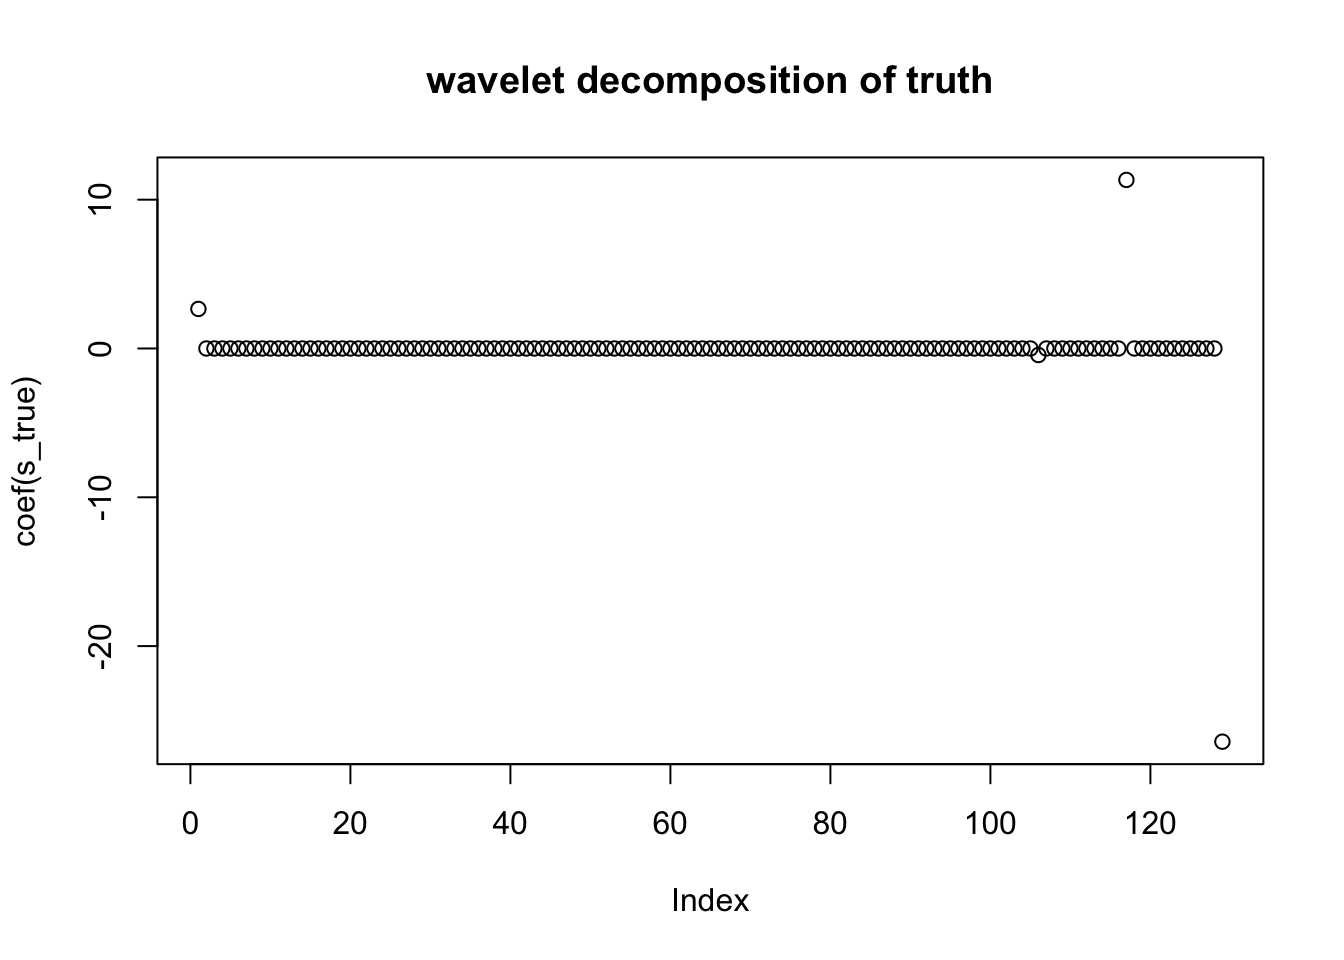
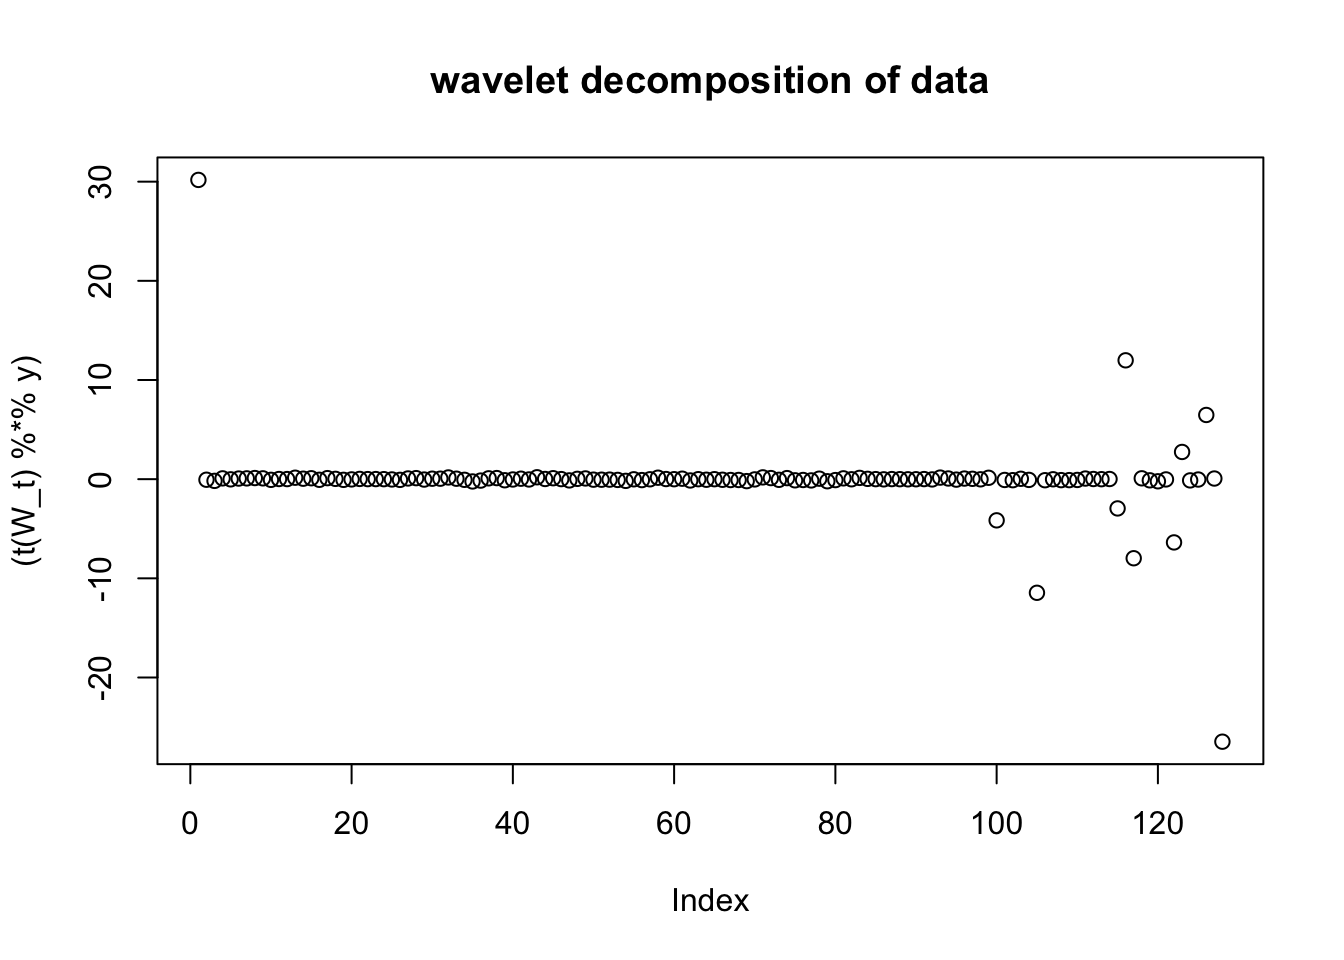
Build site.

diff --git a/docs/wavelet-susie-20190129.html b/docs/wavelet-susie-20190129.html
@@ -436,7 +436,7 @@ div.section {
 </div>
 
 
-<p><strong>Last updated:</strong> 2019-01-29</p>
+<p><strong>Last updated:</strong> 2019-01-30</p>
 <strong>workflowr checks:</strong> <small>(Click a bullet for more information)</small>
 <ul>
 <li>
@@ -460,7 +460,7 @@ div.section {
 </details>
 </li>
 <li>
-<p><details> <summary> <strong style="color:blue;">✔</strong> <strong>Repository version:</strong> <a href="https://github.com/KaiqianZhang/susie-np/tree/7d736391c860d389f6b5a8db7f1e5eeb7ea72b71" target="_blank">7d73639</a> </summary></p>
+<p><details> <summary> <strong style="color:blue;">✔</strong> <strong>Repository version:</strong> <a href="https://github.com/KaiqianZhang/susie-np/tree/d812586fbcf743f607ef07366038cdacc9167f55" target="_blank">d812586</a> </summary></p>
 Great! You are using Git for version control. Tracking code development and connecting the code version to the results is critical for reproducibility. The version displayed above was the version of the Git repository at the time these results were generated. <br><br> Note that you need to be careful to ensure that all relevant files for the analysis have been committed to Git prior to generating the results (you can use <code>wflow_publish</code> or <code>wflow_git_commit</code>). workflowr only checks the R Markdown file, but you know if there are other scripts or data files that it depends on. Below is the status of the Git repository when the results were generated:
 <pre><code>
 Ignored files:
@@ -501,6 +501,40 @@ Message
 </tr>
 </thead>
 <tbody>
+<tr>
+<td style="text-align:left;">
+Rmd
+</td>
+<td style="text-align:left;">
+<a href="https://github.com/KaiqianZhang/susie-np/blob/d812586fbcf743f607ef07366038cdacc9167f55/analysis/wavelet-susie-20190129.Rmd" target="_blank">d812586</a>
+</td>
+<td style="text-align:left;">
+kaiqian
+</td>
+<td style="text-align:left;">
+2019-01-30
+</td>
+<td style="text-align:left;">
+update 20190129, fix residual variance in the bad fit example
+</td>
+</tr>
+<tr>
+<td style="text-align:left;">
+html
+</td>
+<td style="text-align:left;">
+<a href="https://cdn.rawgit.com/KaiqianZhang/susie-np/fb0735e0508d864792e467a76ba020e2a0129f4f/docs/wavelet-susie-20190129.html" target="_blank">fb0735e</a>
+</td>
+<td style="text-align:left;">
+kaiqian
+</td>
+<td style="text-align:left;">
+2019-01-29
+</td>
+<td style="text-align:left;">
+Build site.
+</td>
+</tr>
 <tr>
 <td style="text-align:left;">
 Rmd
@@ -595,6 +629,36 @@ RW_t = tcrossprod(R, W)</code></pre>
 lines(x, beta, col=&quot;black&quot;, lwd=2)
 lines(x, predict(s), col=&#39;red&#39;, lwd=2)</code></pre>
 <p><img src="figure/wavelet-susie-20190129.Rmd/unnamed-chunk-6-1.png" width="672" style="display: block; margin: auto;" /></p>
+<details> <summary><em>Expand here to see past versions of unnamed-chunk-6-1.png:</em></summary>
+<table style="border-collapse:separate; border-spacing:5px;">
+<thead>
+<tr>
+<th style="text-align:left;">
+Version
+</th>
+<th style="text-align:left;">
+Author
+</th>
+<th style="text-align:left;">
+Date
+</th>
+</tr>
+</thead>
+<tbody>
+<tr>
+<td style="text-align:left;">
+<a href="https://github.com/KaiqianZhang/susie-np/blob/fb0735e0508d864792e467a76ba020e2a0129f4f/docs/figure/wavelet-susie-20190129.Rmd/unnamed-chunk-6-1.png" target="_blank">fb0735e</a>
+</td>
+<td style="text-align:left;">
+kaiqian
+</td>
+<td style="text-align:left;">
+2019-01-29
+</td>
+</tr>
+</tbody>
+</table>
+<p></details></p>
 <pre class="r"><code>n = 100
 K = 2^(ceiling(log2(n)))
 set.seed(1)
@@ -611,6 +675,36 @@ RW_t = tcrossprod(R, W)</code></pre>
 lines(x, beta, col=&quot;black&quot;, lwd=2)
 lines(x, predict(s), col=&#39;red&#39;, lwd=2)</code></pre>
 <p><img src="figure/wavelet-susie-20190129.Rmd/unnamed-chunk-10-1.png" width="672" style="display: block; margin: auto;" /></p>
+<details> <summary><em>Expand here to see past versions of unnamed-chunk-10-1.png:</em></summary>
+<table style="border-collapse:separate; border-spacing:5px;">
+<thead>
+<tr>
+<th style="text-align:left;">
+Version
+</th>
+<th style="text-align:left;">
+Author
+</th>
+<th style="text-align:left;">
+Date
+</th>
+</tr>
+</thead>
+<tbody>
+<tr>
+<td style="text-align:left;">
+<a href="https://github.com/KaiqianZhang/susie-np/blob/fb0735e0508d864792e467a76ba020e2a0129f4f/docs/figure/wavelet-susie-20190129.Rmd/unnamed-chunk-10-1.png" target="_blank">fb0735e</a>
+</td>
+<td style="text-align:left;">
+kaiqian
+</td>
+<td style="text-align:left;">
+2019-01-29
+</td>
+</tr>
+</tbody>
+</table>
+<p></details></p>
 <p>Putting aside non-equispaced and not a power of 2 implementation, we first want to understand the following bad fit. Suppose we have <code>n=128</code> (i.e. n is a power of 2) equal-spaced data points with three jumps. Fitting with orthogoal wavelet basis, we still get a bad fit. We can observe this from Figure 3 below.</p>
 <pre class="r"><code>n = 128
 beta = c(rep(0,20), rep(3,20), rep(-3,20), rep(5,68))
@@ -622,12 +716,80 @@ y = beta + rnorm(n, sd=0.1)</code></pre>
 lines(beta, col=&quot;black&quot;, lwd=2)
 lines(predict(s), col=&#39;red&#39;, lwd=2)</code></pre>
 <p><img src="figure/wavelet-susie-20190129.Rmd/unnamed-chunk-14-1.png" width="672" style="display: block; margin: auto;" /></p>
-<p>We apply wavelet decomposition of truth and data and plot their coefficients. We notice that both decompositions identify three non-zeros around same locations. And the number of non-zeros indicates that beta is pretty sparse. Our question becomes if coefficients are the same, is there anything wrong with prediction?</p>
-<pre class="r"><code>s_true = susie(W_t, beta, L=50, estimate_prior_variance = TRUE)</code></pre>
-<pre class="r"><code>plot(coef(s_true), main=&#39;wavelet decomposition of truth&#39;)</code></pre>
+<details> <summary><em>Expand here to see past versions of unnamed-chunk-14-1.png:</em></summary>
+<table style="border-collapse:separate; border-spacing:5px;">
+<thead>
+<tr>
+<th style="text-align:left;">
+Version
+</th>
+<th style="text-align:left;">
+Author
+</th>
+<th style="text-align:left;">
+Date
+</th>
+</tr>
+</thead>
+<tbody>
+<tr>
+<td style="text-align:left;">
+<a href="https://github.com/KaiqianZhang/susie-np/blob/fb0735e0508d864792e467a76ba020e2a0129f4f/docs/figure/wavelet-susie-20190129.Rmd/unnamed-chunk-14-1.png" target="_blank">fb0735e</a>
+</td>
+<td style="text-align:left;">
+kaiqian
+</td>
+<td style="text-align:left;">
+2019-01-29
+</td>
+</tr>
+</tbody>
+</table>
+<p></details></p>
+<p>We apply wavelet decomposition of truth and data and plot their coefficients. We notice that both decompositions identify nine non-zeros around same locations. And the number of non-zeros indicates that beta is relatively sparse.</p>
+<pre class="r"><code># beta = Wb, b is data or truth, beta is coefficients
+plot((t(W_t) %*% beta), main=&#39;wavelet decomposition of truth&#39;)</code></pre>
+<p><img src="figure/wavelet-susie-20190129.Rmd/unnamed-chunk-15-1.png" width="672" style="display: block; margin: auto;" /></p>
+<pre class="r"><code>plot((t(W_t) %*% y), main=&#39;wavelet decomposition of data&#39;)</code></pre>
 <p><img src="figure/wavelet-susie-20190129.Rmd/unnamed-chunk-16-1.png" width="672" style="display: block; margin: auto;" /></p>
-<pre class="r"><code>plot(coef(s), main=&#39;wavelet decomposition of data&#39;)</code></pre>
-<p><img src="figure/wavelet-susie-20190129.Rmd/unnamed-chunk-17-1.png" width="672" style="display: block; margin: auto;" /></p>
+<details> <summary><em>Expand here to see past versions of unnamed-chunk-16-1.png:</em></summary>
+<table style="border-collapse:separate; border-spacing:5px;">
+<thead>
+<tr>
+<th style="text-align:left;">
+Version
+</th>
+<th style="text-align:left;">
+Author
+</th>
+<th style="text-align:left;">
+Date
+</th>
+</tr>
+</thead>
+<tbody>
+<tr>
+<td style="text-align:left;">
+<a href="https://github.com/KaiqianZhang/susie-np/blob/fb0735e0508d864792e467a76ba020e2a0129f4f/docs/figure/wavelet-susie-20190129.Rmd/unnamed-chunk-16-1.png" target="_blank">fb0735e</a>
+</td>
+<td style="text-align:left;">
+kaiqian
+</td>
+<td style="text-align:left;">
+2019-01-29
+</td>
+</tr>
+</tbody>
+</table>
+<p></details></p>
+<p>Matthew said looking further, it is a local optimum problem. As he suggested, I fixed residual variance in SuSiE and got a pretty good fit :)</p>
+<pre class="r"><code>s_true = susie(W_t, y, L=50, estimate_prior_variance = TRUE,residual_variance = .1, estimate_residual_variance=FALSE)
+susie_get_objective(s_true)</code></pre>
+<pre><code>[1] -50.83932</code></pre>
+<pre class="r"><code>plot(y, pch=20, col=&quot;grey&quot;, main=&quot;Figure 4: after setting residual variance&quot;)
+lines(beta, col=&quot;black&quot;, lwd=2)
+lines(predict(s_true), col=&#39;red&#39;, lwd=2)</code></pre>
+<p><img src="figure/wavelet-susie-20190129.Rmd/unnamed-chunk-18-1.png" width="672" style="display: block; margin: auto;" /></p>
 </div>
 <div id="session-information" class="section level2">
 <h2>Session information</h2>
